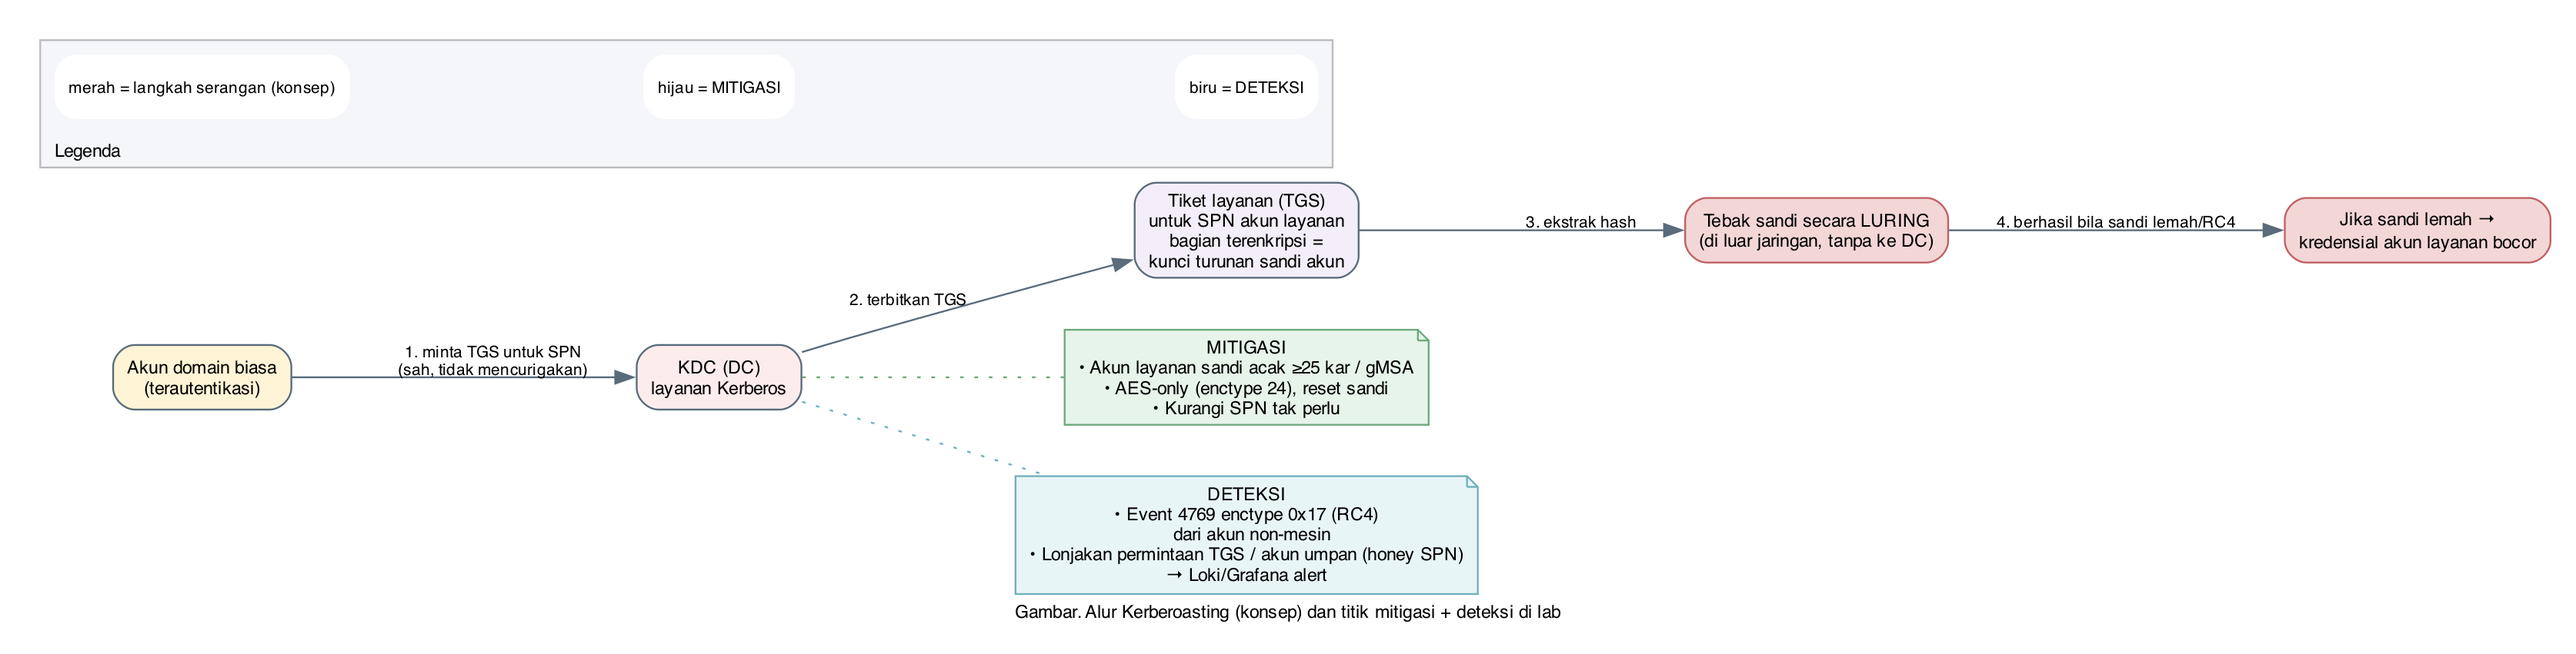
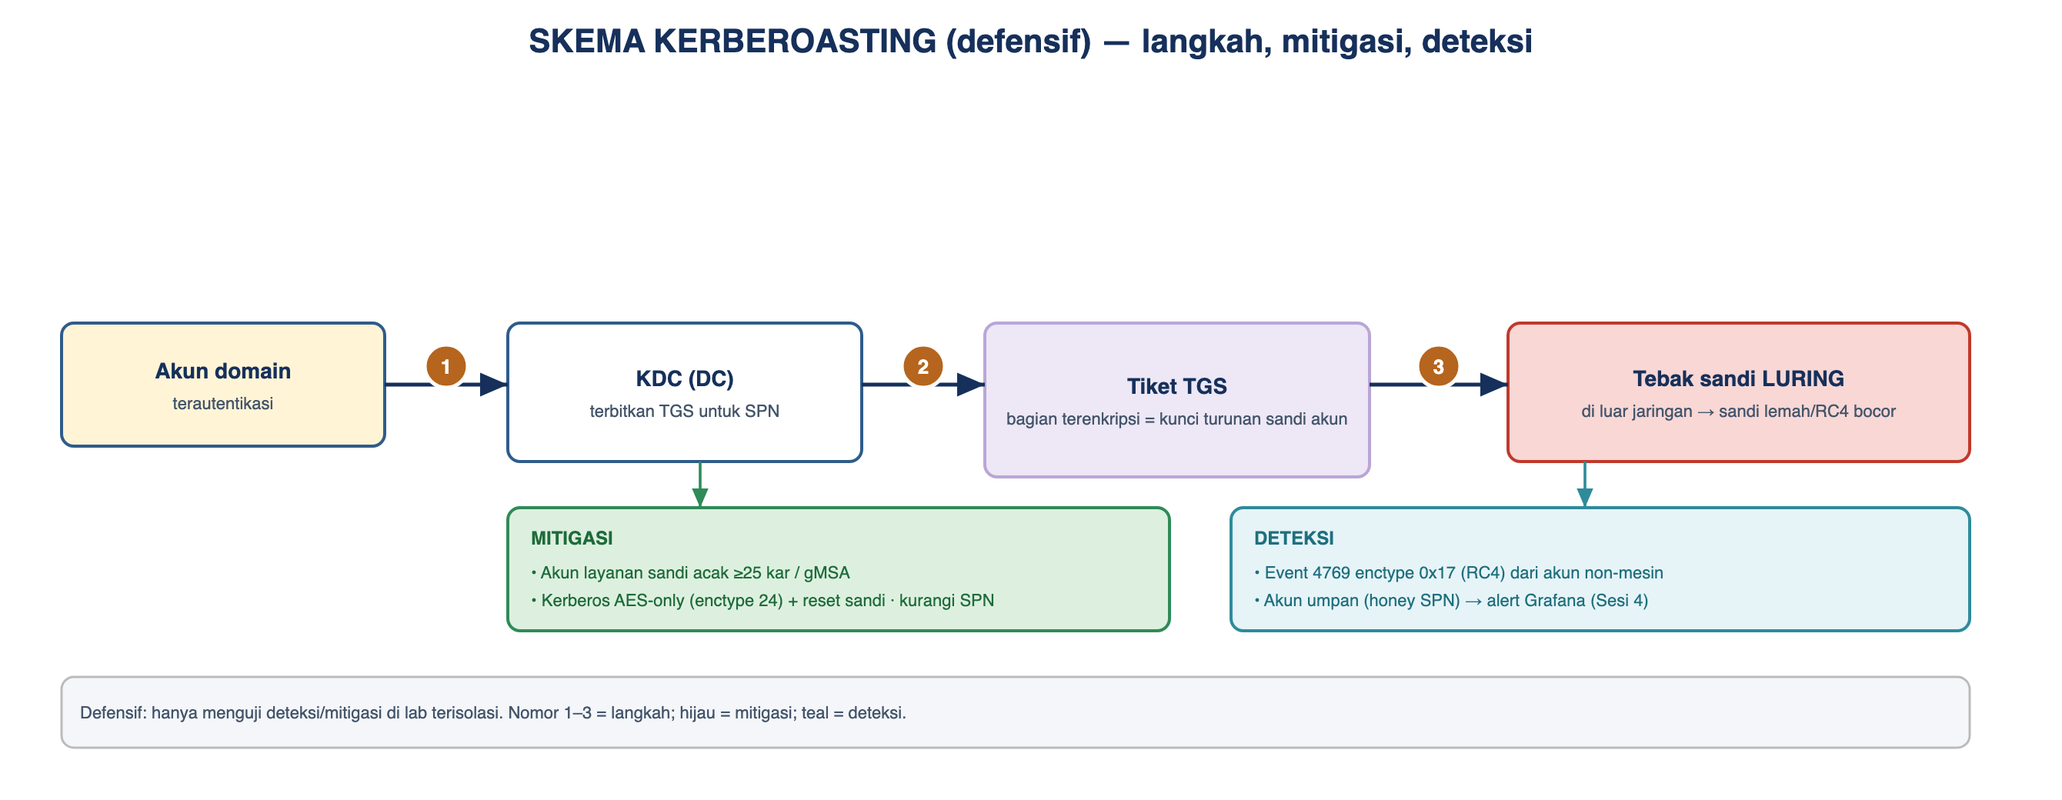
Seragamkan gaya diagram ke sesi 1-4: alur bernomor ortogonal + legenda + Agenda Aktivitas
- SSO (sesi-2), PAM (sesi-3), pipeline audit (sesi-4): didesain ulang gaya SVG konsisten
  (node rapi, garis ortogonal, badge nomor, kotak legenda) + Agenda Aktivitas di README
- RBAC (sesi-2), Kerberoasting & Pass-the-Hash (sesi-1): gaya sama (langkah bernomor +
  blok mitigasi/deteksi berwarna + legenda)
- Generator: build/diagrams/svglib.py + gen_flows.py, render via Playwright

diff --git a/sesi-2-sso-mfa/README.md b/sesi-2-sso-mfa/README.md
@@ -38,6 +38,17 @@ jumlah sandi, memusatkan kebijakan & audit, dan memudahkan penonaktifan akun ser
 
 ![Alur SSO: aplikasi → Keycloak → federasi LDAP AD → MFA → token/assertion](gambar/alur-sso.png)
 
+**Agenda Aktivitas (nomor pada diagram):**
+1. Pengguna membuka aplikasi (akses `/`).
+2. Aplikasi mengarahkan ke Keycloak — OIDC *Authorization Code + PKCE* atau SAML *AuthnRequest*.
+3. Pengguna mengisi form login di Keycloak.
+4. Keycloak memverifikasi kredensial ke **Active Directory** (LDAPS 636) + menarik atribut/grup.
+5. Keycloak meminta **MFA** bila kondisi (grup/klien kritikal) terpenuhi.
+6. Keycloak mengembalikan **token/assertion** ke aplikasi.
+7. Aplikasi membuka sesi; peran ditentukan dari klaim grup.
+8. Event login (LOGIN/LOGIN_ERROR) dikirim ke **audit** (Alloy→Loki, Sesi 4).
+
+
 *Gambar: pengguna menekan login di aplikasi → diarahkan ke Keycloak → Keycloak memeriksa kredensial ke AD lewat LDAPS, meminta OTP bila perlu → menerbitkan token yang dipercaya aplikasi.*
 
 **Protokol:**

diff --git a/sesi-3-pam/README.md b/sesi-3-pam/README.md
@@ -40,6 +40,16 @@ langsung ke server tanpa jejak = sulit diaudit. PAM menutup keduanya.
 
 ![Alur PAM: SSO + MFA → Warpgate (bastion) → target; OpenBao untuk kredensial & SSH CA](gambar/alur-pam.png)
 
+**Agenda Aktivitas (nomor pada diagram):**
+1. Admin login ke **bastion Warpgate**.
+2. Warpgate meneruskan autentikasi ke **Keycloak** (SSO OIDC + MFA).
+3. Keycloak mengembalikan **token + grup** ke Warpgate.
+4. Sesi **SSH ke target** diproksikan lewat bastion **dan direkam**.
+5. Admin mengambil kredensial *break-glass* / meminta **sertifikat SSH** dari **OpenBao**.
+6. Target memercayai **SSH CA** OpenBao (atau memakai kredensial yang diambil).
+7. Aktivitas (akses vault, sesi bastion, sshd) dikirim ke **audit** (Sesi 4).
+
+
 **SSH CA.** Alih-alih menyebar kunci publik ke tiap server, server cukup
 memercayai satu *Certificate Authority*; OpenBao menandatangani sertifikat SSH berumur
 pendek (mis. 30 menit) untuk pengguna yang berhak — **Kapan** kadaluwarsa cepat

diff --git a/sesi-4-audit-monitoring/README.md b/sesi-4-audit-monitoring/README.md
@@ -66,6 +66,13 @@ mem-*parse*, memberi label → **Loki** menyimpan → **Grafana** menampilkan & 
 
 ![Pipeline log identitas: sumber → Alloy → Loki → Grafana → notifikasi](gambar/pipeline-log.png)
 
+**Agenda Aktivitas (nomor pada diagram):**
+1. Sumber log (Windows AD, Keycloak, OpenBao, Warpgate/sshd, Caddy) mengirim ke **Alloy**.
+2. Alloy mem-*parse* & memberi label (hanya `service`/`event`) lalu mengirim ke **Loki**.
+3. **Grafana** membaca Loki untuk dashboard & evaluasi alert.
+4. Alert dikirim sebagai email ke **Mailpit** (kotak surat uji).
+
+
 **Prinsip label (penting).** Jadikan label hanya dimensi *low-cardinality* (`service`,
 `event`); nilai seperti `user`/`ip` disimpan sebagai *structured metadata*/field (dikueri
 LogQL), **bukan** label — agar kardinalitas tidak meledak dan Loki tetap cepat.
